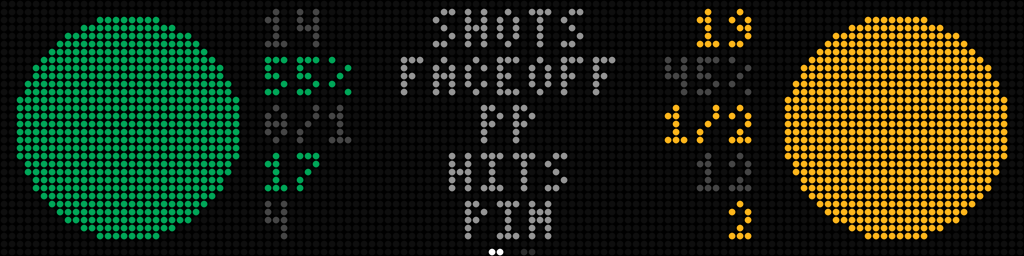
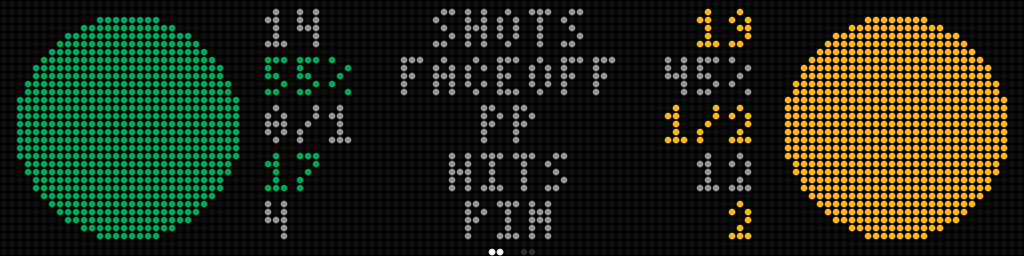
Intermission stats: show the trailing side's numbers in the label grey
The side behind on a row was dimmed to (70,70,70), too dark to read on
the panel. It now uses the same grey as the stat's name in the middle.

Claude-Session: https://claude.ai/code/session_01Euh6oP8NUVn9LuHPaqVPio

diff --git a/src/scoreboard/display/renderer.py b/src/scoreboard/display/renderer.py
@@ -569,8 +569,9 @@ class Renderer:
     #: Tiny-face baselines of the intermission table's rows, and of its rows under a header line.
     _INTERMISSION_BASELINES = (6, 12, 18, 24, 30)
     _INTERMISSION_HEADED_BASELINES = (12, 18, 24, 30)
-    _INTERMISSION_TRAILING = (70, 70, 70)
     _INTERMISSION_LABEL = (150, 150, 150)
+    #: The side behind on a row shows its number in the label's grey: dimmer was unreadable.
+    _INTERMISSION_TRAILING = _INTERMISSION_LABEL
 
     def draw_intermission(self, canvas: Any, game: Game, stats: GameStats, tick: int = 0) -> None:
         """The favourite's game stats in place of an empty game scene during an intermission.
